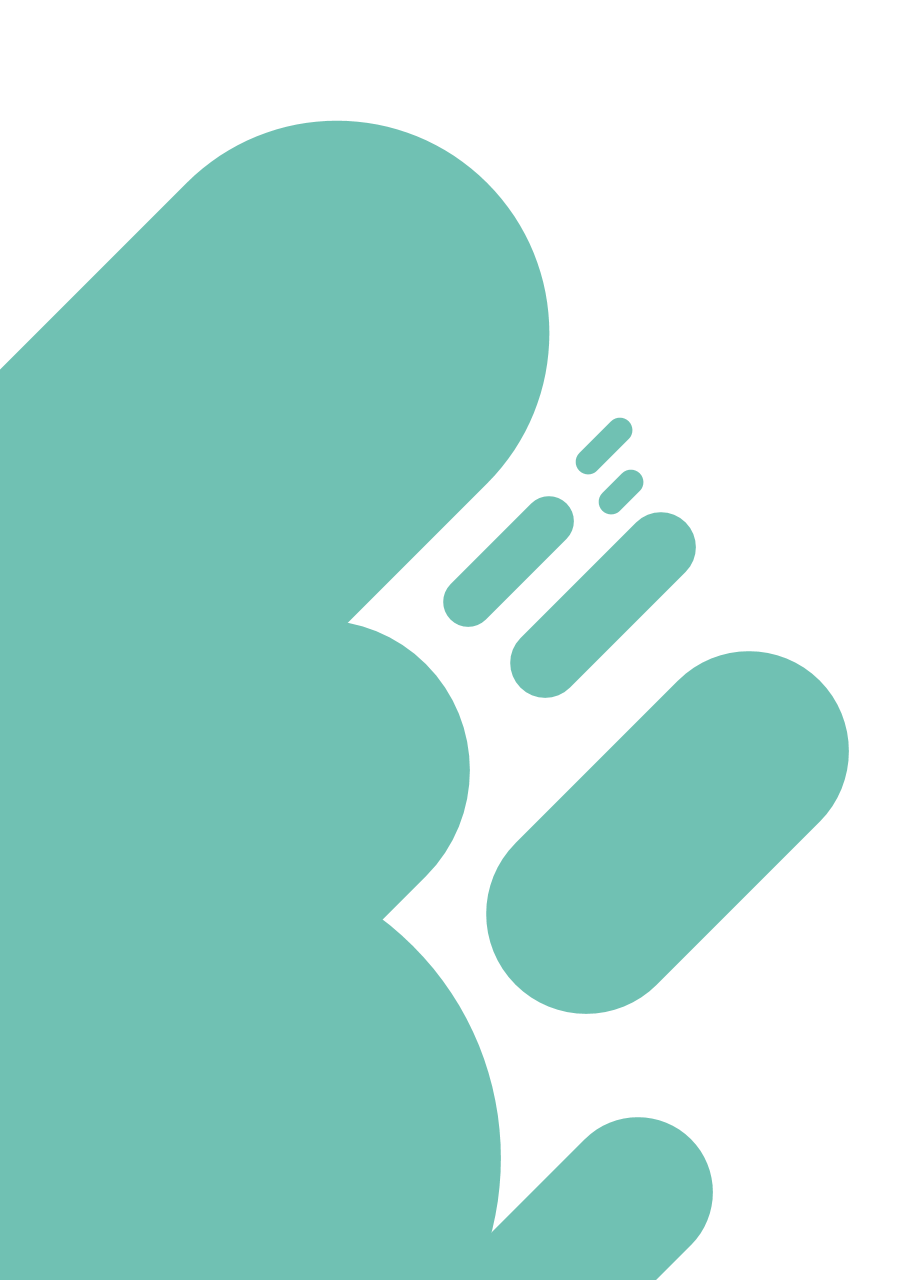
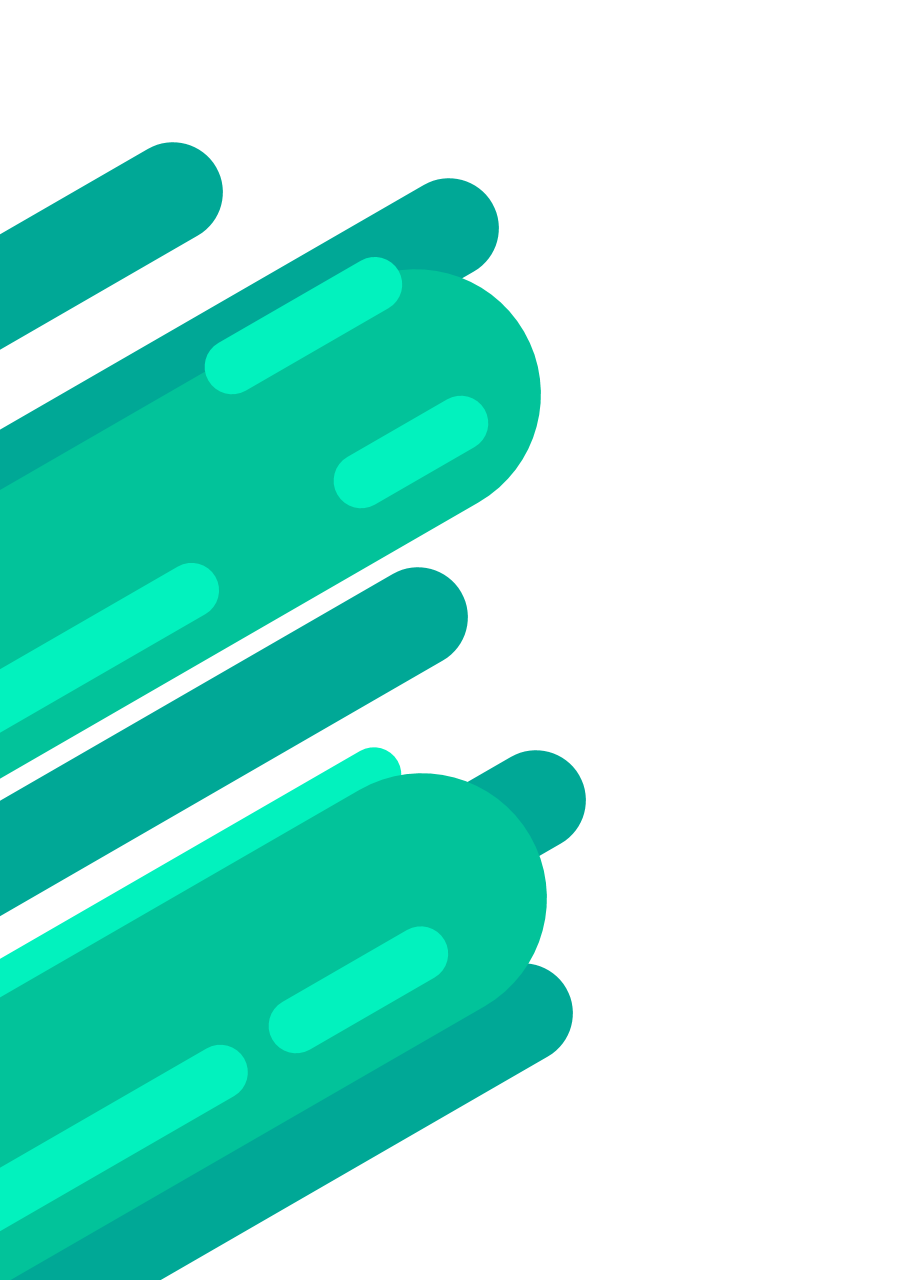
Redesign part 2 + some content changes

diff --git a/index.html b/index.html
@@ -22,10 +22,6 @@
 	
 		<div class="landing">
 			<div id="pic-container">
-				<!--<img src="img/corner.png" id="corner0">
-				<img src="img/corner.png" id="corner1">
-				<img src="img/corner1.png" id="corner2">
-				<img src="img/downArrow.png" id="arrow">-->
                 <div id="back-card" class="card1"></div>
                 <div id="back-card" class="card2"></div>
                 <img src="img/landing-small-min.jpg" id="card">
@@ -37,7 +33,7 @@
 		<div class="greeting">
 			<h2 style="font-size: calc(0.5em + 2vw); font-weight: 200;">Hi, this is</h2>
 			<h1 style="font-size: calc(4em + 4vw); font-weight: 200;">Zeyu Chen</h1>
-			<h3 style="font-size: calc(0.5em + 1.5vw); font-weight: 200;">I am an <b>active learner</b> and a <strong>passionate problem solver.</strong></h3>
+			<h3 style="font-size: calc(0.5em + 1.5vw); font-weight: 200;">I like to throw algorithms onto algorithms.</h3>
 		</div>
 		
 		<!-- Main content container, plays a role in the parallax effect -->
@@ -61,12 +57,12 @@
 					<h2 class="prof_bio" style="color: #70C1B3;">Hi, I'm Zeyu Chen.</h2>
 				<br />
 				<p>
-					I am a high school student who enjoys working in computer and data science. One of my favorite pastimes is to solve programming problems in <strong>efficient</strong> and <b>creative</b> manners.
+					I am a high school student who enjoys working in computer and data science. One of my favourite pastimes is to solve programming problems in <strong>efficient</strong> and <b>creative</b> manners.
 					<br /> <br />
 					I began learning how to code since I was 11, when I started my first project of a centimetre to metre units conversion tool.
 					What started as a small school project began a <b>passion</b>, and soon I was using code to solve some everyday problems.
 					<br /> <br />
-					Outside of programming I enjoy practising Taekwon-do as a 3rd Dan Black Belt, researching algorithms, doing graphic design, and writing computer science problems for online competitions.
+					Outside of programming I enjoy practising Taekwon-do as a 3rd Dan Black Belt, speedrunning, researching algorithms, doing graphic design, and writing computer science problems for online competitions.
 					<br /> <br />
 					The sheer versatility of programming and vast world of algorithms <b>drives</b> my motivation to <strong>always keep learning and experimenting</strong>.
 				</p>
@@ -164,7 +160,7 @@
 		
 		<!-- Footer -->
 		<footer>
-			<p>Copyright © Zeyu. All rights reserved. 2020<br /><b>Crafted by Zeyu Chen</b></p>
+			<p>Copyright © Zeyu. All rights reserved. 2020<br /><b>Made from scratch by Zeyu Chen</b></p>
 		</footer>
 		</div>
 	</div>

diff --git a/styles/index_style.css b/styles/index_style.css
@@ -77,7 +77,7 @@ b {
 /* Front part of the header */
 
 .landing {
-  background: white;
+  background: url('../img/background.jpg') center center;
   height: 100vh;
   top: 0;
   z-index: 1;
@@ -188,7 +188,7 @@ b {
 /* How message on header is displayed */
 
 .greeting {
-  color:#000;
+  color:#343a40;
   height: 100vh;
   position:absolute;
   top: 50vh;
